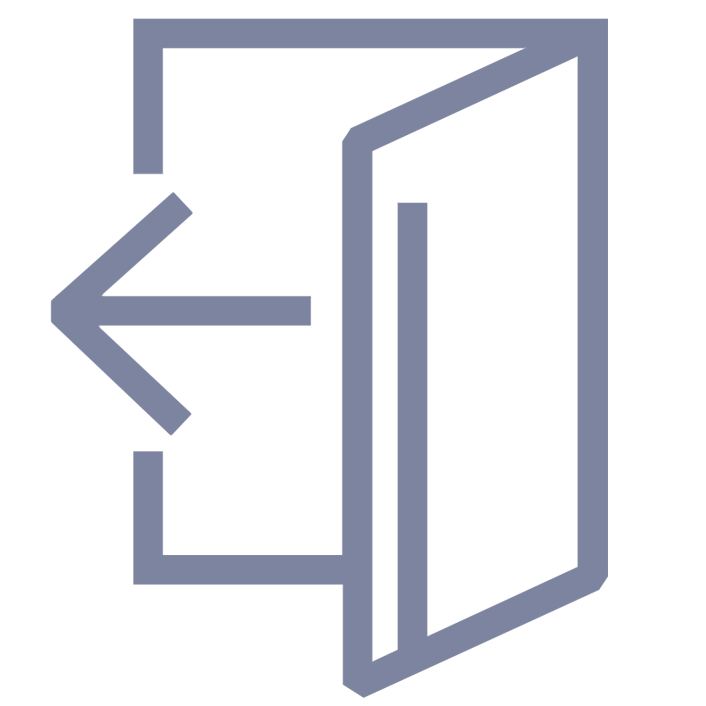
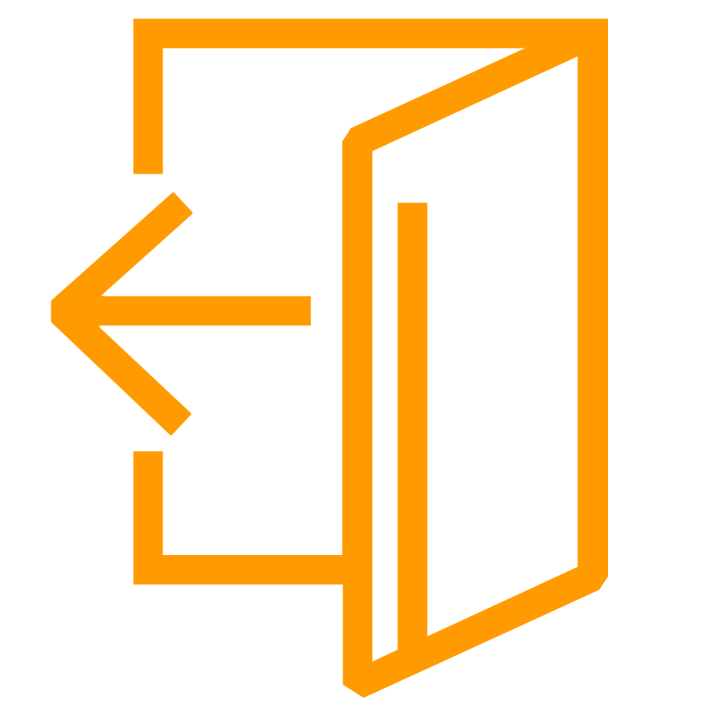
ragequits

Changed region(s): [[0.0623, 0.0, 0.8725, 0.9972]]

diff --git a/imports/ui/templates/widgets/transaction/transaction.html b/imports/ui/templates/widgets/transaction/transaction.html
@@ -77,57 +77,51 @@
                 </td>
               {{/if}}
               {{#if ragequit}}
-                <td class="actor actor-arrow">
-                  <div class="transaction-ragequit">
-                    <img src="{{getImage 'ragequit'}}" class="transaction-signal">
-                    {{_ 'moloch-period-ragequit'}}
-                  </div>
-                </td>
+                {{#unless hidePost}}
+                  {{#with ragequitPost}}
+                    {{> preview}}
+                  {{/with}}
+                {{/unless}}
               {{else}}
-                <td class="actor actor-arrow">
-                  <a href='{{blockchainHash}}' title='{{blockchainInfo}}' target="_blank">
-                    <img src="{{transactionIcon}}" class="transaction-direction">
-                  </a>
-                </td>
-              {{/if}}
-              {{#if isRevoke}}
-                <td class="actor">
-                  <div class="identity identity-transaction w-clearfix">
-                    {{#with receiver}}
-                      {{> avatar size=24 profile=this._id includeName=true includeNation=true editable=false microFont=true disabled=false includeRole=false flex=true}}
-                    {{/with}}
-                  </div>
-                </td>
-              {{else}}
-                {{#if isCrypto}}
-                  {{#unless hidePost}}
-                    {{> preview contractId=this.receiverId}}
-                  {{/unless}}
+                {{#if isRevoke}}
+                  <td class="actor">
+                    <div class="identity identity-transaction w-clearfix">
+                      {{#with receiver}}
+                        {{> avatar size=24 profile=this._id includeName=true includeNation=true editable=false microFont=true disabled=false includeRole=false flex=true}}
+                      {{/with}}
+                    </div>
+                  </td>
                 {{else}}
-                  {{#unless isSubsidy}}
-                    <td class="actor">
-                      <div class="actor actor-score actor-score-ballot">
-                        <div class="transaction-value">
-                          <div class="bar-labels">
-                            <div class="vote-available label-votes">
-                              <div class="stage stage-vote {{stage}}">
-                                <div class="label label-corner">
-                                  <div class="checkbox-mini">
-                                    <div class="checkmark_kick"></div>
-                                    <div class="checkmark_stem"></div>
+                  {{#if isCrypto}}
+                    {{#unless hidePost}}
+                      {{> preview contractId=this.receiverId}}
+                    {{/unless}}
+                  {{else}}
+                    {{#unless isSubsidy}}
+                      <td class="actor">
+                        <div class="actor actor-score actor-score-ballot">
+                          <div class="transaction-value">
+                            <div class="bar-labels">
+                              <div class="vote-available label-votes">
+                                <div class="stage stage-vote {{stage}}">
+                                  <div class="label label-corner">
+                                    <div class="checkbox-mini">
+                                      <div class="checkmark_kick"></div>
+                                      <div class="checkmark_stem"></div>
+                                    </div>
+                                    {{ballotOption}}
                                   </div>
-                                  {{ballotOption}}
                                 </div>
                               </div>
                             </div>
                           </div>
                         </div>
-                      </div>
-                    </td>
-                    {{#unless hidePost}}
-                      {{> preview contractId=this.receiverId}}
+                      </td>
+                      {{#unless hidePost}}
+                        {{> preview contractId=this.receiverId}}
+                      {{/unless}}
                     {{/unless}}
-                  {{/unless}}
+                  {{/if}}
                 {{/if}}
               {{/if}}
             </tr>

diff --git a/imports/ui/templates/widgets/feed/feedItem.html b/imports/ui/templates/widgets/feed/feedItem.html
@@ -83,8 +83,8 @@
                   {{#if moloch}}
                     {{#if ragequit}}
                       <div class="election-rule election-rule-top">
-                        {{{_ 'moloch-contract-parameters'}}}
-                        {{> help tooltip='moloch-contract-parameters-tooltip'}}
+                        {{{_ 'moloch-contract-ragequit'}}}
+                        {{> help tooltip='moloch-contract-ragequit-tooltip'}}
                       </div>
                       <div class="smart-contract">
                         <div class="parameter-line">
@@ -98,6 +98,7 @@
                               {{/with}}
                             </div>
                           </div>
+                          <!-- NOTE: to be done soon
                           <div class="parameter">
                             <div class="parameter-name">
                               {{_ 'moloch-ragequit-funds-withdraw'}}
@@ -108,6 +109,7 @@
                               {{/with}}
                             </div>
                           </div>
+                          -->
                         </div>
                       </div>
                     {{else}}
@@ -158,25 +160,27 @@
               </div>
             </div>
             {{#unless ragequit}}
-              {{#unless onChainVote}}  
-                {{#if quadraticEnabled}}
+              <div class="title-input title-feed title-ballot">
+                {{#unless onChainVote}}
+                  {{#if quadraticEnabled}}
+                    <div class="election-rule">
+                      {{{_ 'election-rule-quadratic'}}}
+                      {{> help tooltip='voting-editor-quadratic-tooltip'}}
+                    </div>
+                  {{/if}}
+                  {{#if balanceEnabled}}
+                    <div class="election-rule">
+                      {{{_ 'election-rule-balance'}}}
+                      {{> help tooltip='voting-editor-balance-tooltip'}}
+                    </div>
+                  {{/if}}
+                {{else}}
                   <div class="election-rule">
-                    {{{_ 'election-rule-quadratic'}}}
-                    {{> help tooltip='voting-editor-quadratic-tooltip'}}
+                    {{{_ 'election-rule-onchain'}}}
+                    {{> help tooltip='voting-editor-onchain-tooltip'}}
                   </div>
-                {{/if}}
-                {{#if balanceEnabled}}
-                  <div class="election-rule">
-                    {{{_ 'election-rule-balance'}}}
-                    {{> help tooltip='voting-editor-balance-tooltip'}}
-                  </div>
-                {{/if}}
-              {{else}}
-                <div class="election-rule">
-                  {{{_ 'election-rule-onchain'}}}
-                  {{> help tooltip='voting-editor-onchain-tooltip'}}
-                </div>
-              {{/unless}}
+                {{/unless}}
+              </div>
               {{#if requiresClosing}}
                 {{#with closingData}}
                   {{> countdown}}

diff --git a/imports/ui/templates/widgets/preview/preview.html b/imports/ui/templates/widgets/preview/preview.html
@@ -1,17 +1,36 @@
 <template name="preview">
-  <div class="identity identity-transaction w-clearfix" style="float:left">
-    <div class="w-clearfix avatar-editor">
-      <div class="identity-peer identity-post">
-        {{#if ready}}
-          <a href="{{url}}" title="{{fullTitle}}" class="identity-label identity-label-micro identity-label-post">
-            {{{displayTitle}}}
+  {{#if ready}}
+    <td class="actor actor-arrow">
+      {{#if ragequit}}
+        <td class="actor actor-arrow">
+          <a href="{{url}}" title="{{fullTitle}}" class="transaction-action transaction-action-ragequit">
+            <img src="{{getImage 'ragequit'}}" class="transaction-signal">
+            {{_ 'moloch-period-ragequit'}}
+          </a>
+        </td>
+      {{else}}
+        {{#if passed}}
+          <a href="{{url}}" title="{{fullTitle}}" class="transaction-action transaction-action-passed">
+            <img src="{{getImage 'passed'}}" class="transaction-signal">
+            {{_ 'yes'}}
           </a>
         {{else}}
+          <a href="{{url}}" title="{{fullTitle}}" class="transaction-action transaction-action-rejected">
+            <img src="{{getImage 'rejected'}}" class="transaction-signal">
+            {{_ 'no'}}
+          </a>
+        {{/if}}
+      {{/if}}
+    </td>
+  {{else}}
+    <div class="identity identity-transaction w-clearfix" style="float:left">
+      <div class="w-clearfix avatar-editor">
+        <div class="identity-peer identity-post">
           <div class="identity-label identity-label-micro identity-label-post">
             {{_ 'await-contract'}}
           </div>
-        {{/if}}
+        </div>
       </div>
     </div>
-  </div>
+  {{/if}}
 </template>

diff --git a/imports/ui/templates/widgets/preview/preview.js b/imports/ui/templates/widgets/preview/preview.js
@@ -5,6 +5,7 @@ import { $ } from 'meteor/jquery';
 
 import { stripHTMLfromText } from '/imports/ui/modules/utils';
 import { Contracts } from '/imports/api/contracts/Contracts';
+import { templetize, getImage } from '/imports/ui/templates/layout/templater';
 
 import '/imports/ui/templates/widgets/preview/preview.html';
 
@@ -39,11 +40,22 @@ Template.preview.onCreated(function () {
       instance.contract.set(contract);
     }
   }
+
+  Template.instance().imageTemplate = new ReactiveVar();
+  templetize(Template.instance());
 });
 
 Template.preview.helpers({
   ready() {
+    console.log(`ready: ${(Template.instance().contract.get() !== undefined)}`);
     return (Template.instance().contract.get() !== undefined);
+  },
+  ragequit() {
+    return this.ragequit;
+  },
+  passed() {
+    const thumbUp = Template.instance().contract.get().importId.toUpperCase().match('YES');
+    return (thumbUp && thumbUp.length > 0);
   },
   displayTitle() {
     const contract = Template.instance().contract.get();
@@ -62,5 +74,8 @@ Template.preview.helpers({
   },
   url() {
     return Template.instance().contract.get().url;
+  },
+  getImage(pic) {
+    return getImage(Template.instance().imageTemplate.get(), pic);
   },
 });

diff --git a/public/templates/moloch/css/extra.css b/public/templates/moloch/css/extra.css
@@ -1062,20 +1062,43 @@ h4 {
   margin-top: 0px;
 }
 
-.transaction-ragequit {
-float: right;
-    font-size: 0.45em;
-    /* background: black; */
-    padding: 0px 4px;
-    color: #7d849f;
-    text-transform: uppercase;
-    line-height: 12px;
-    border-radius: 3px;
-    margin-top: -2px;
-    margin: 1px -6px 0px 5px;
+.transaction-action {
+  float: right;
+  font-size: 0.5em;
+  font-weight: 400;
+  padding: 4px 4px;
+  color: #7d849f;
+  text-transform: uppercase;
+  line-height: 12px;
+  border-radius: 3px;
+  margin-top: -2px;
+  margin: 2px -4px 0px 6px;
+  cursor:pointer;
 }
+
+.transaction-action:hover {
+  text-decoration: underline;
+}
+
+.transaction-action-ragequit {
+  color: #ff9a00;
+}
+
+.transaction-action-passed {
+  color: #01c190;
+}
+
+.transaction-action-rejected {
+  color: #ff3d67;
+}
+
 .transaction-signal {
   width: 16px;
   height: 16px;
+  margin: 0px 2px 1px;
+}
+
+.title-ballot {
+  margin-top: 0px;
 }
 

diff --git a/imports/ui/templates/widgets/tally/tally.js b/imports/ui/templates/widgets/tally/tally.js
@@ -21,10 +21,11 @@ const _voteToContract = (post, contract, hidePost, winningBallot, openFeed) => {
     senderId: post.input.entityId,
     receiverId: post.output.entityId,
     isVote: true,
-    hidePost: (post.isRagequit) ? true : hidePost,
+    hidePost: (post.isRagequit) ? false : hidePost,
     winningBallot,
     isRevoke: (post.input.entityType !== 'INDIVIDUAL'),
     isRagequit: post.isRagequit,
+    contractId: post.contractId,
   };
   if (openFeed) {
     // for a feed in a general context (home page)

diff --git a/imports/ui/templates/widgets/transaction/transaction.js b/imports/ui/templates/widgets/transaction/transaction.js
@@ -293,6 +293,14 @@ Template.transaction.helpers({
     }
     return getImage(Template.instance().imageTemplate.get(), 'arrow-right');
   },
+  ragequitPost() {
+    const post = {
+      contractId: this.contractId,
+      ragequit: true,
+    };
+    console.log(post);
+    return post;
+  },
   getImage(pic) {
     return getImage(Template.instance().imageTemplate.get(), pic);
   },
